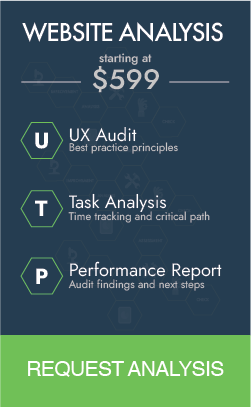
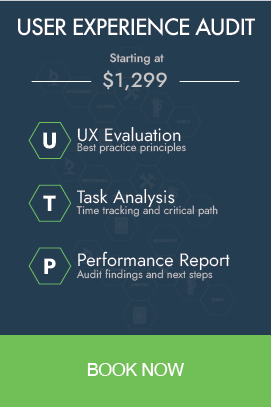
Updates user experience audit landing page

diff --git a/tailwind.config.js b/tailwind.config.js
@@ -11,7 +11,6 @@ module.exports = {
   ],
   darkMode: false, // or 'media' or 'class'
   theme: {
-
     extend: {
       height: theme => ({
         "screen/2": "50vh",
@@ -23,6 +22,7 @@ module.exports = {
         "screen75vh": "calc(75vh)",
         "screen65vh": "calc(65vh)",
       }),
+
       gradientColorStops: theme => ({
         ...theme('colors'),
         'primary': '#3490dc',
@@ -115,6 +115,21 @@ module.exports = {
       '60%': '60%',
       '16': '4rem',
     },
+    scale: {
+      '0': '0',
+      '25': '.25',
+      '50': '.5',
+      '75': '.75',
+      '90': '.9',
+      '95': '.95',
+      '100': '1',
+      '102': '1.02',
+      '105': '1.05',
+      '110': '1.1',
+      '125': '1.25',
+      '150': '1.5',
+      '200': '2',
+    },
     backgroundImage: theme => ({
       'hero-pattern': "url('/image/logo-bp.png')",
       'hero-sm': "url('/image/logo-bp.png')",
@@ -170,7 +185,10 @@ module.exports = {
     },
   },
   variants: {
-    extend: {},
+    extend: {
+      brightness: ['hover', 'focus'],
+      grayscale: ['hover', 'focus'],
+    },
   },
   plugins: [],
 }

diff --git a/pages/articles/[id].js b/pages/articles/[id].js
@@ -96,11 +96,12 @@ export default function Post({ postData }) {
                                 <div dangerouslySetInnerHTML={{ __html: postData.contentHtml }} />
                             </section>
                         </section>
-                        <section className='lg:block hidden flex-shrink-0'>
+                        <section className='lg:block hidden flex-shrink-0 '>
                             <div className=''>
-                                <Link href='/campaign/website-analysis'>
-                                    <a>
+                                <Link href='/campaign/website-analysis' >
+                                    <a className='block overflow-hidden'>
                                         <img
+                                            className="filter transition duration-500 ease-in-out transform hover:scale-102"
                                             src="/image/ad-websiteAnalysis.png"
                                             alt="Website analysis graphic"
                                         />

diff --git a/pages/campaign/website-analysis.js b/pages/campaign/website-analysis.js
@@ -27,7 +27,7 @@ export default function WebsiteAnalysisContact() {
                         <div className="text-lightGray">
                             <div className="flex flex-col md:pb-12">
                                 <span>Starting at:</span>
-                                <p className="text-lightGray text-6xl">$599.00</p>
+                                <p className="text-lightGray text-6xl">$1,299.00</p>
                             </div>
                             <div className="flex flex-col md:pb-12">
                                 <p className="text-lightGray">Enter your information in the form and submit your request for a website analysis.  I look forward to working

diff --git a/pages/articles.js b/pages/articles.js
@@ -62,8 +62,9 @@ export default function Articles({allPostsData}) {
                             {featuredPosts
                                 .map(featured =>
                                     <div key={featured.id} className='flex flex-col'>
-                                        <div className='flex '>
+                                        <div className=''>
                                             <img
+                                                className=""
                                                 src={featured.bannerImageSource}
                                                 height={651}
                                                 width={1626}

diff --git a/components/socialMediaItem.js b/components/socialMediaItem.js
@@ -3,7 +3,7 @@
 import Link from "next/link";
 
 const SocialMedia = props => (
-    <div className="ml-2">
+    <div className="ml-2 filter transition duration-500 ease-in-out hover:brightness-50">
         <Link
             href={props.path}>
             <a>
